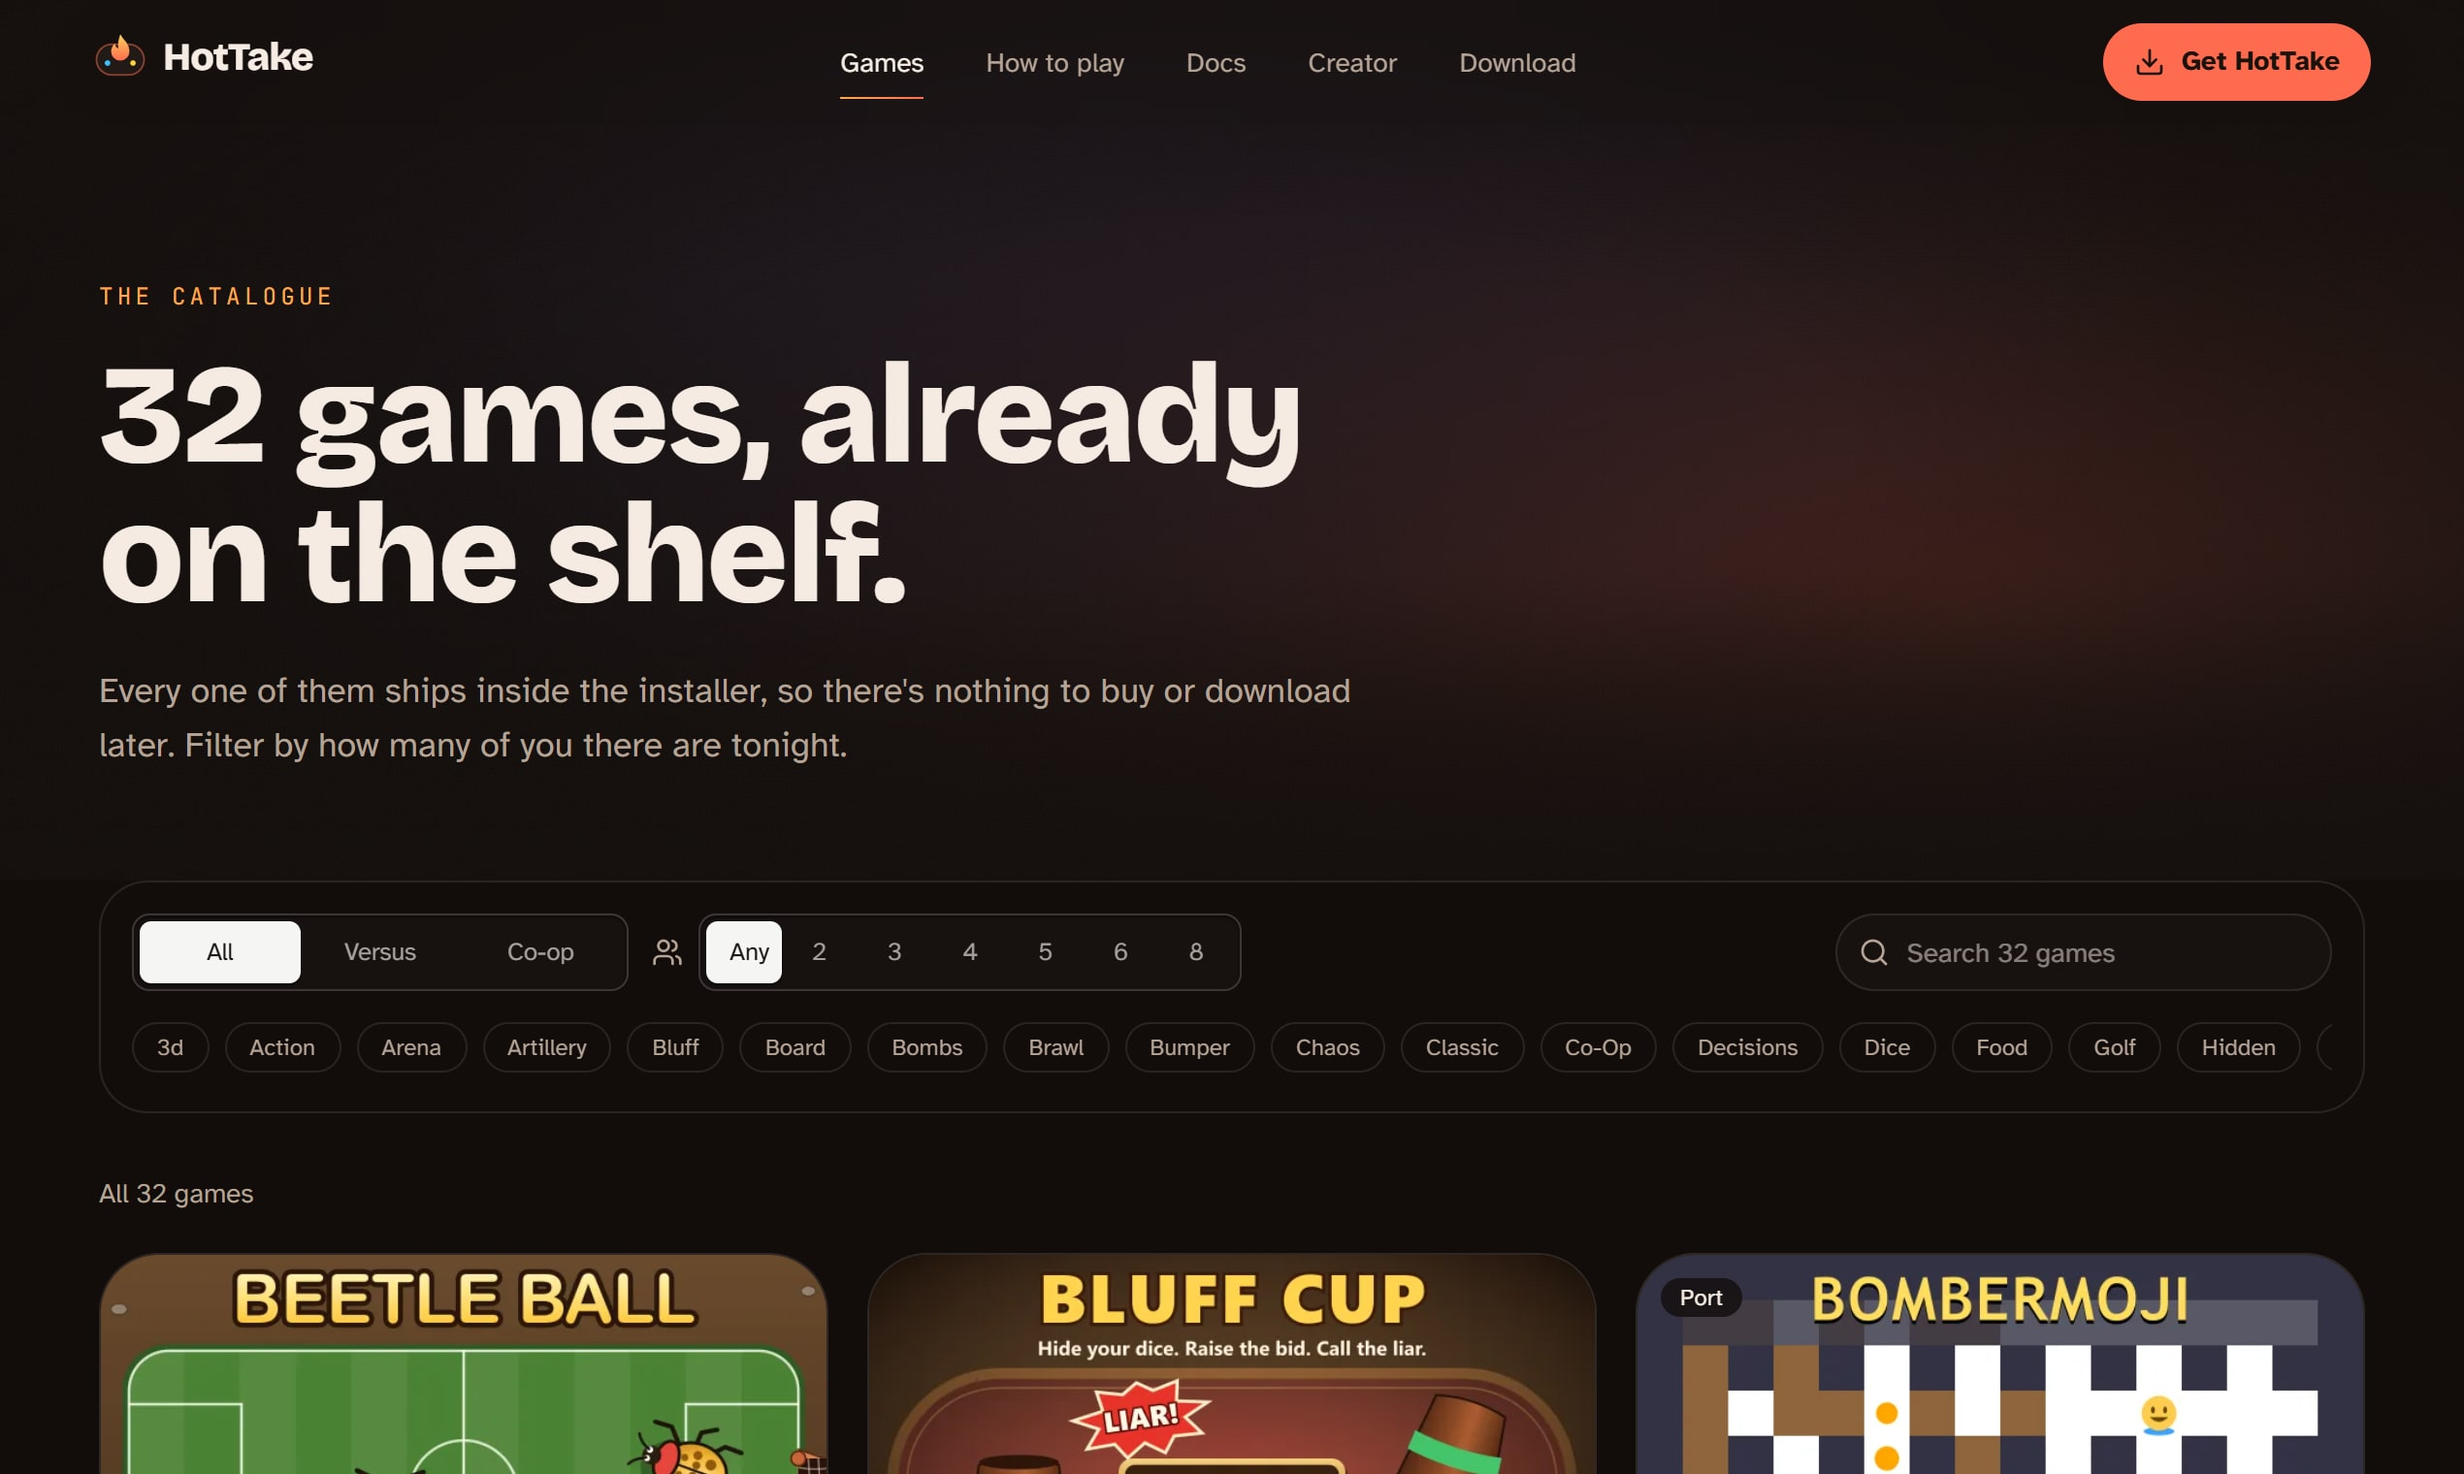
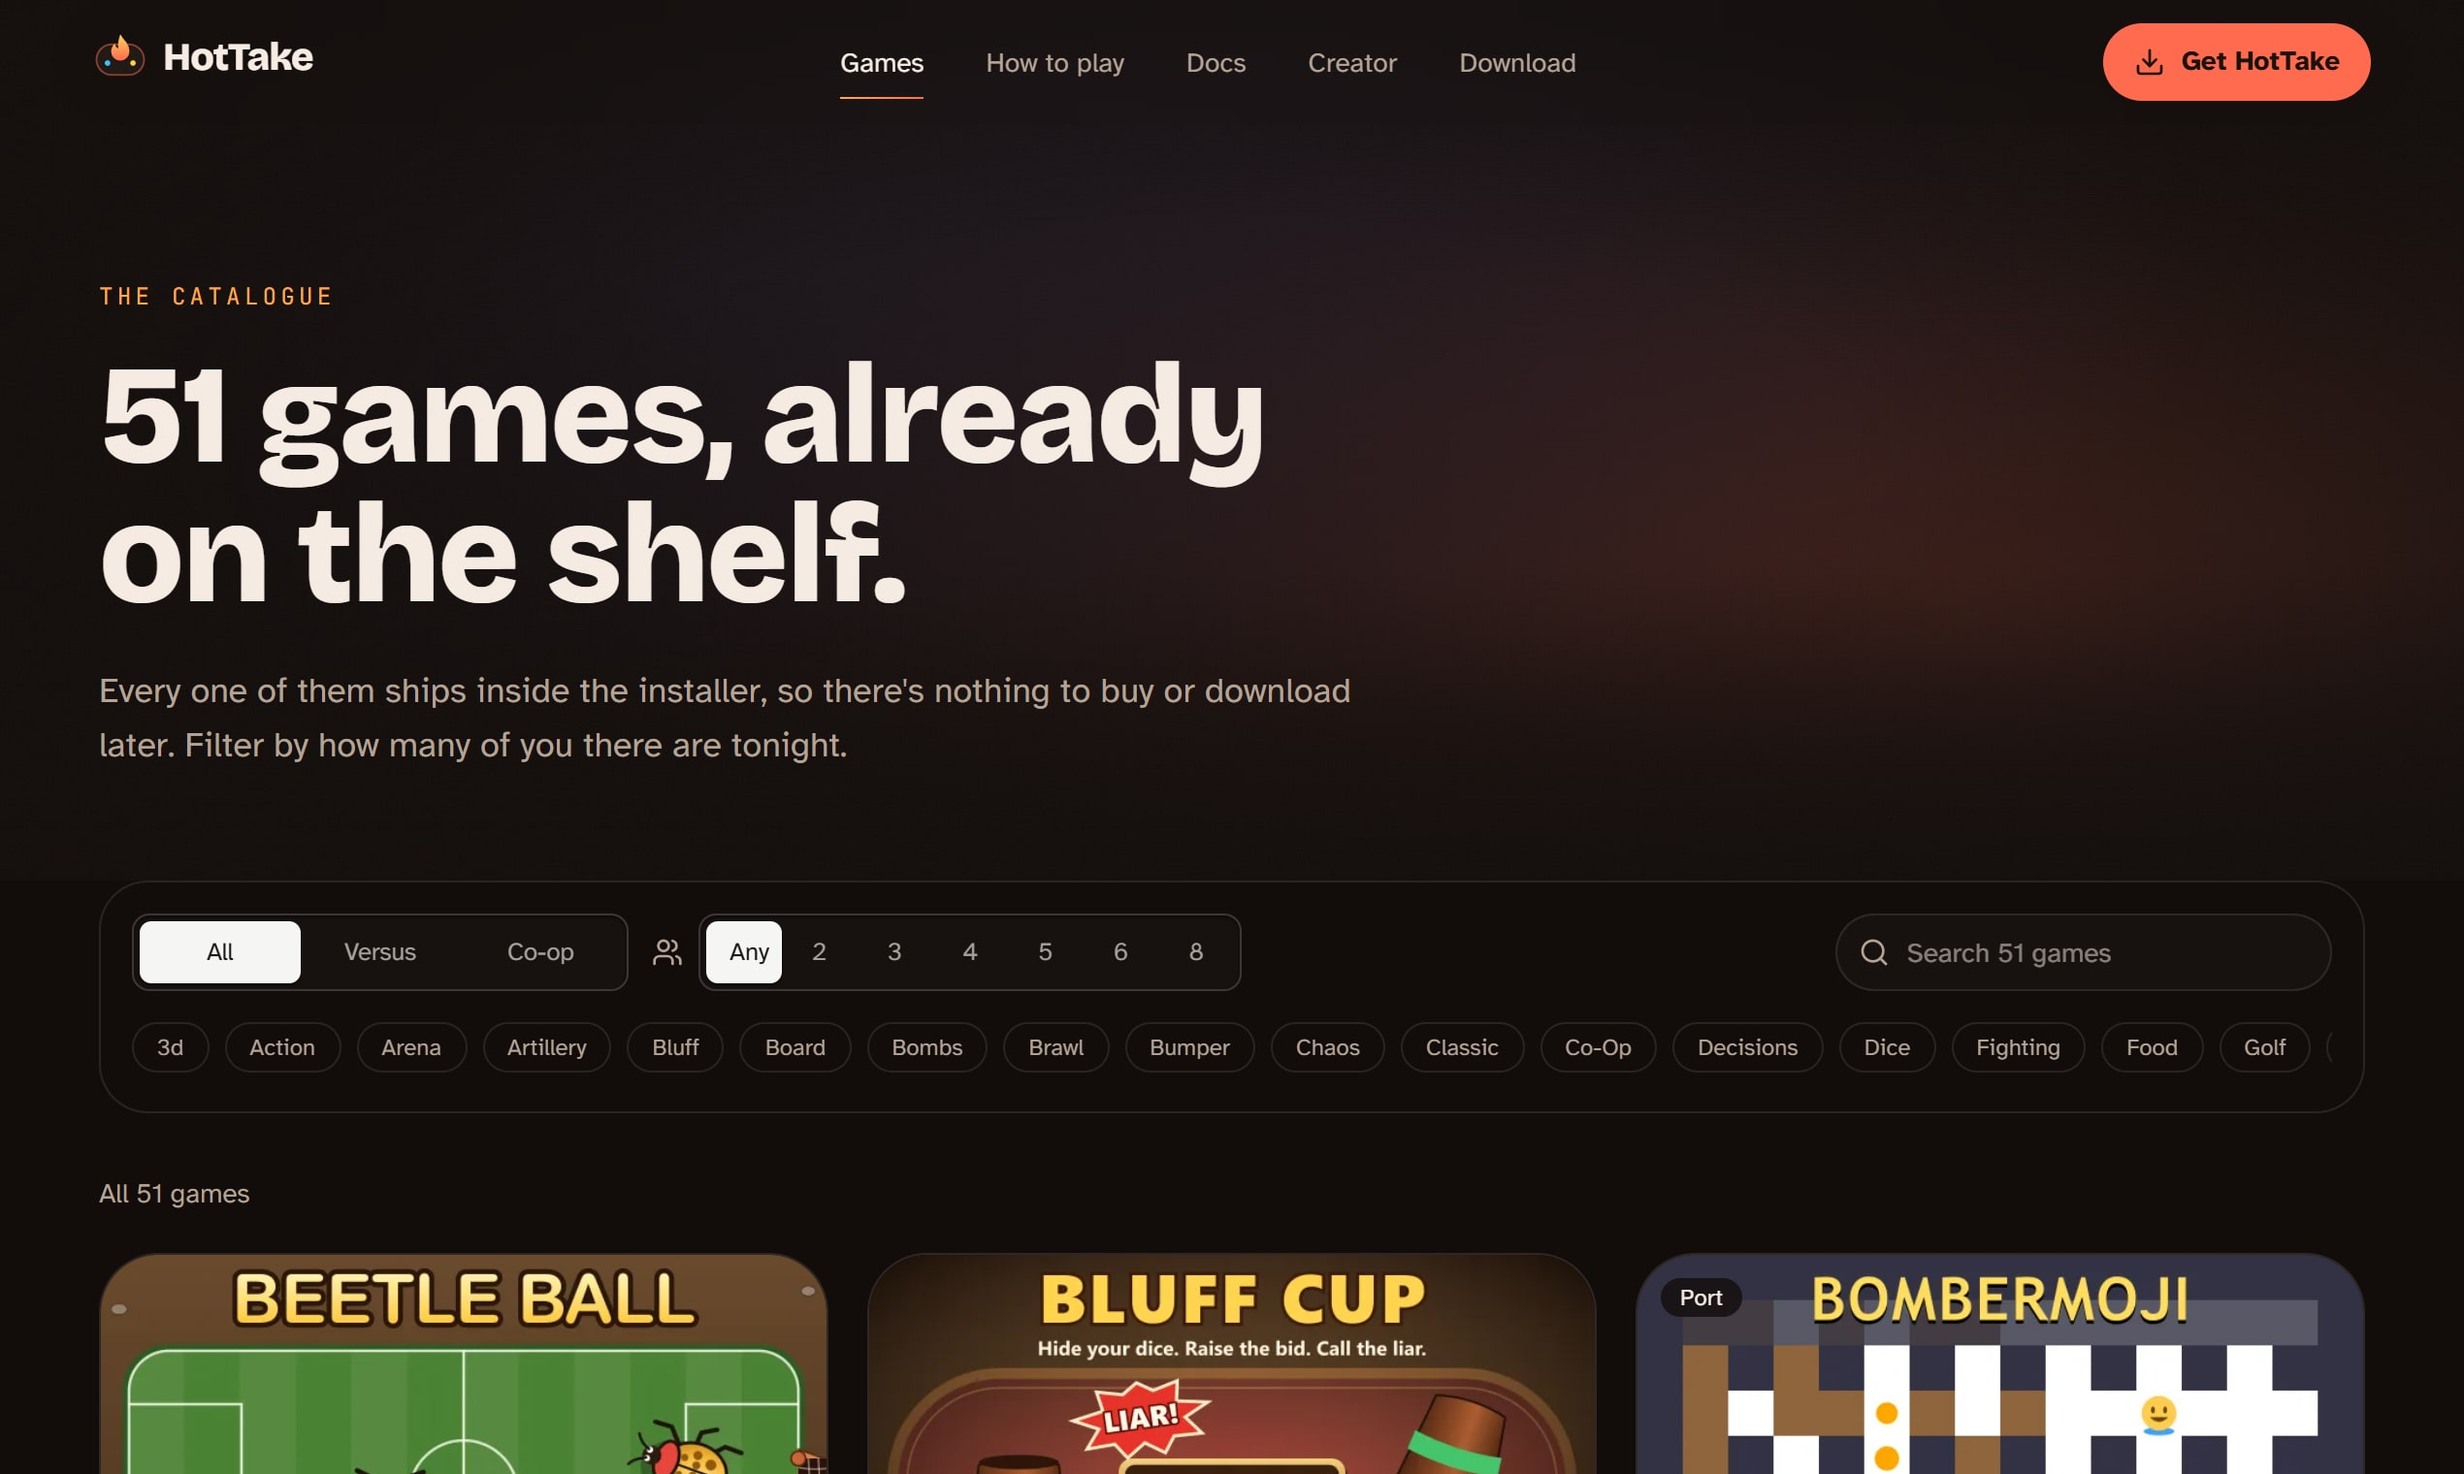
docs: launch kit says 51 games; gallery and itch cover retaken from the live site

diff --git a/docs/launch/itch/devlog.html b/docs/launch/itch/devlog.html
@@ -8,7 +8,7 @@
 </ol>
 <p>No app to install, no accounts, and no cloud server. The laptop hosts everything over your own Wi-Fi, so it works anywhere you have a router.</p>
 
-<h2>32 games in the box</h2>
+<h2>51 games in the box</h2>
 <p>Every game ships inside the installer, for 1 to 8 players. A few favourites:</p>
 <ul>
   <li><strong>Bluff Cup</strong>: hide your dice, raise the bid, call the liar.</li>

diff --git a/docs/launch/product-hunt/README.md b/docs/launch/product-hunt/README.md
@@ -36,13 +36,13 @@ Nothing has been created on Product Hunt yet.
 ### Tagline (max 60 characters)
 
 1. `Your laptop is the console. Every phone is a controller.` (56, the site's own line; recommended)
-2. `32 party games, played with the phones in your pocket` (53)
+2. `51 party games, played with the phones in your pocket` (53)
 3. `Turn any Windows laptop into a party-game console` (49)
 
 ### Description (231 characters)
 
 > Turn a Windows laptop into a party-game console. Friends scan a QR code and their phones become the controllers.
-> No app, no account, no cloud server. 32 games for up to 8 players are built in: brawls, bluffs, races and co-op. Free.
+> No app, no account, no cloud server. 51 games for up to 8 players are built in: brawls, bluffs, races and co-op. Free.
 
 ### First comment (posted by you as the maker)
 
@@ -53,7 +53,7 @@ Nothing has been created on Product Hunt yet.
 > dice games. There's no app to install, no accounts, and nothing goes through a cloud server: the laptop hosts
 > everything on your own Wi-Fi.
 >
-> 32 games ship in the installer, for 1 to 8 players: bluffing, racing, golf, tanks, zombie co-op and more. A few
+> 51 games ship in the installer, for 1 to 8 players: bluffing, racing, golf, tanks, zombie co-op and more. A few
 > are ports that keep their original licences and credits. Want to play with friends who aren't in the room? The
 > docs show how to do that with your own tunnel.
 >
@@ -68,7 +68,7 @@ Gallery (2540×1520, Product Hunt's 1270×760 ratio at 2× for sharpness), in th
 | File | Shows |
 |---|---|
 | `gallery-01-home.jpg` | Hero: "Your laptop is the console. Every phone is a controller." with the TV and phone controllers |
-| `gallery-05-games-shelf.jpg` | "32 games, preloaded. Brawls, bluffs, races and co-op." with game covers |
+| `gallery-05-games-shelf.jpg` | "51 games, preloaded. Brawls, bluffs, races and co-op." with game covers |
 | `gallery-02-games.jpg` | The full catalogue with player-count and genre filters |
 | `gallery-03-game-page.jpg` | A game page (Beetle Ball): players, phone controls, cover art |
 | `gallery-04-how-to-play.jpg` | "From download to first round in two minutes" setup guide |
